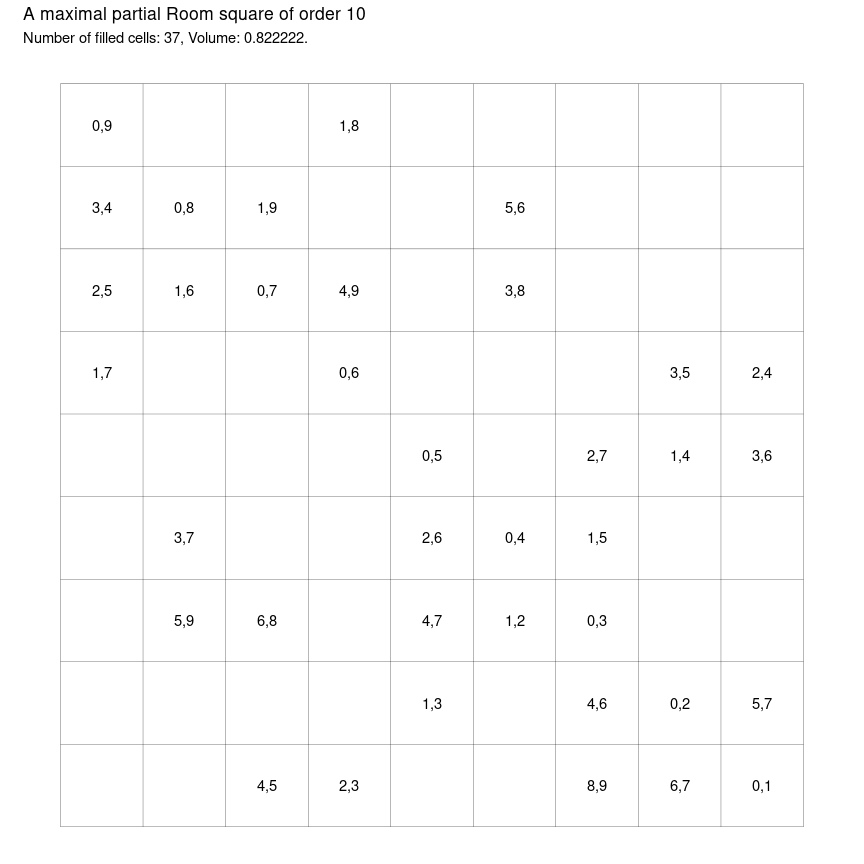
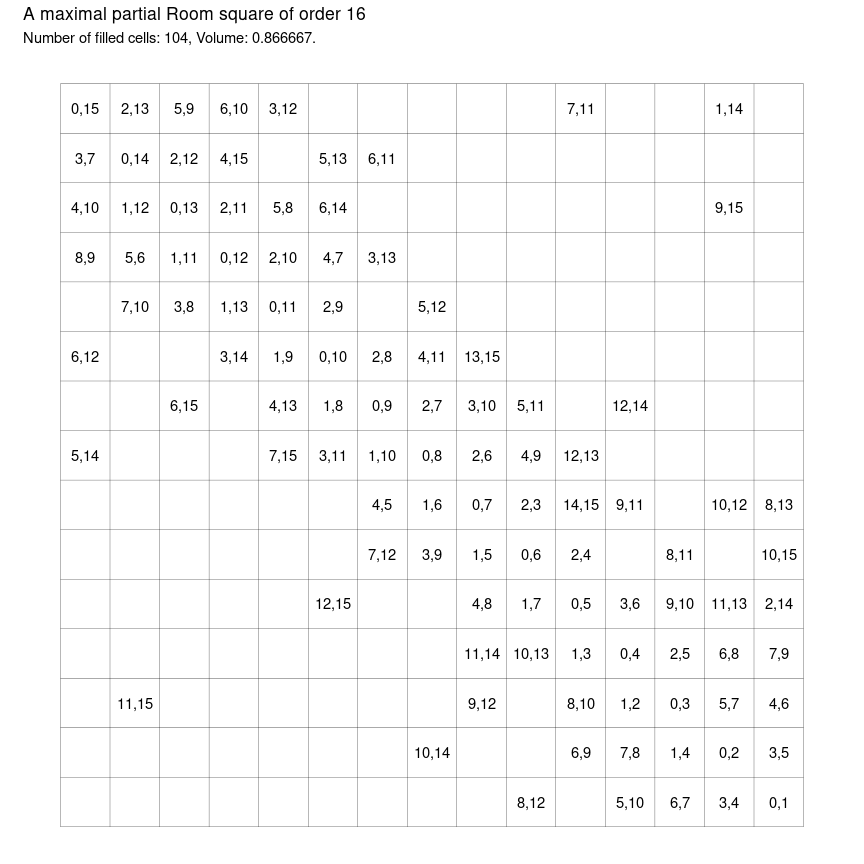
an example of a different ordering

diff --git a/README.md b/README.md
@@ -10,10 +10,8 @@
 library(dplyr)
 library(tictoc)
 
-set.seed(55)
-
 # the order of Room square we are looking for
-n <- 10
+n <- 16
 
 # a data frame representing an empty Room square
 # of the desired order
@@ -21,15 +19,26 @@ R <- expand_grid(row = 1:(n - 1), col = 1:(n - 1)) %>%
   mutate(first = as.integer(NA), second = as.integer(NA)) %>%
   pivot_longer(first:second)
 
+# pairs to be used in order
+P <- not_used_pairs(R)
+
 # go through all of the pairs that haven't yet been
 # used in R (all of them, in this case) and try to
 # place them in an empty cell x. if a suitable x is
 # found then update R.
 tic()
-for(p in not_used_pairs(R)) {
+for(p in P) {
   
+  # cells to be visited in order
   E <- empty_cells(R)
   
+  # an example of a different ordering,
+  # based on distance from main diagonal
+  # visiting those cells closest to the
+  # main diagonal first
+  E <- E[order(sapply(sapply(E, diff), abs), decreasing = TRUE)]
+
+  # provisional available cell
   x <- NULL
   
   # iterate through empty cells in given order
@@ -41,14 +50,14 @@ for(p in not_used_pairs(R)) {
     
   }
   
-  # if one exists then update R by placing p in x
+  # if an available cell x is found then update R by placing p in x
   if(!is.null(x))  {
     R <- update_(R, x, p)
   }
   
 }
 toc()
-#> 0.43 sec elapsed
+#> 2.491 sec elapsed
 ```
 
 ``` r
